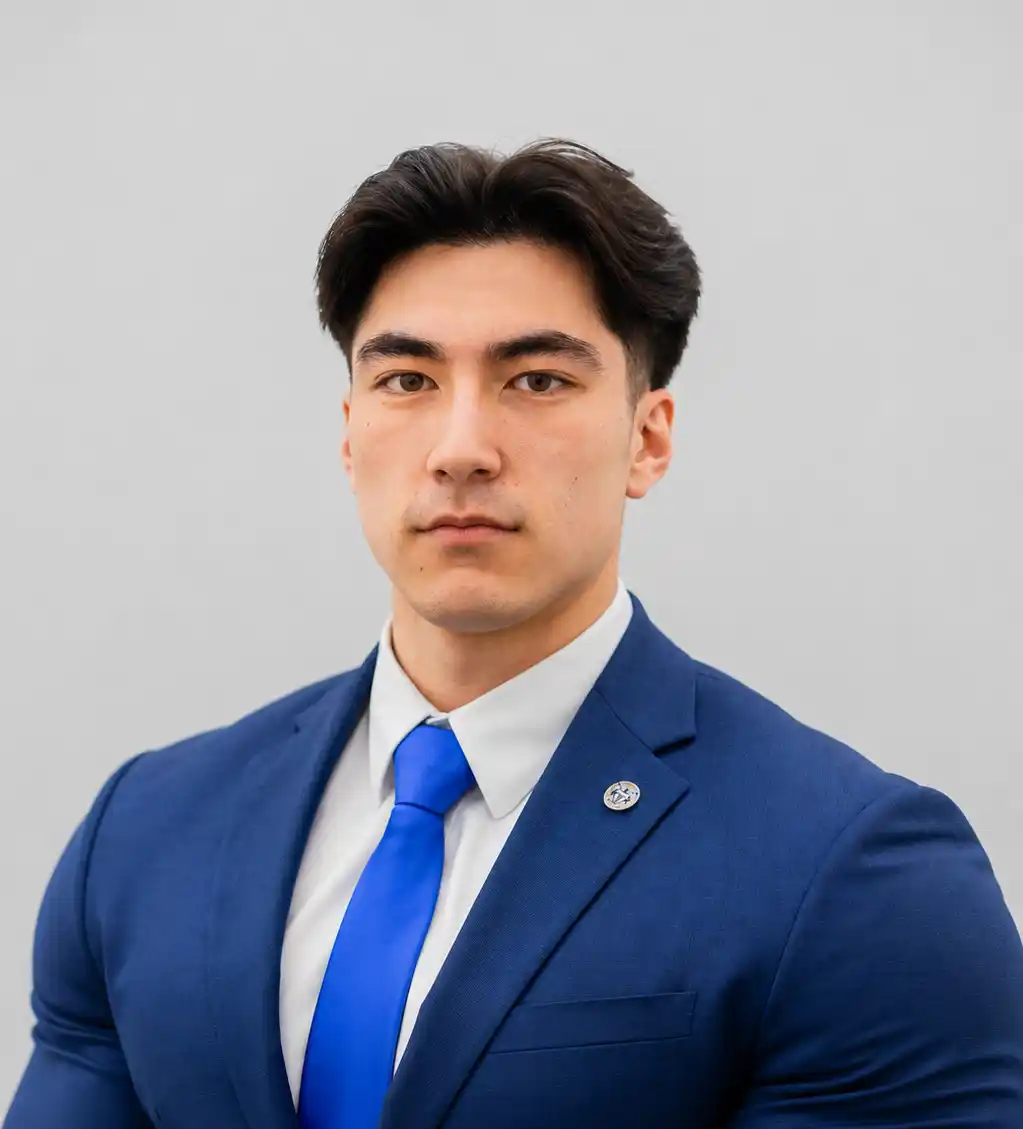
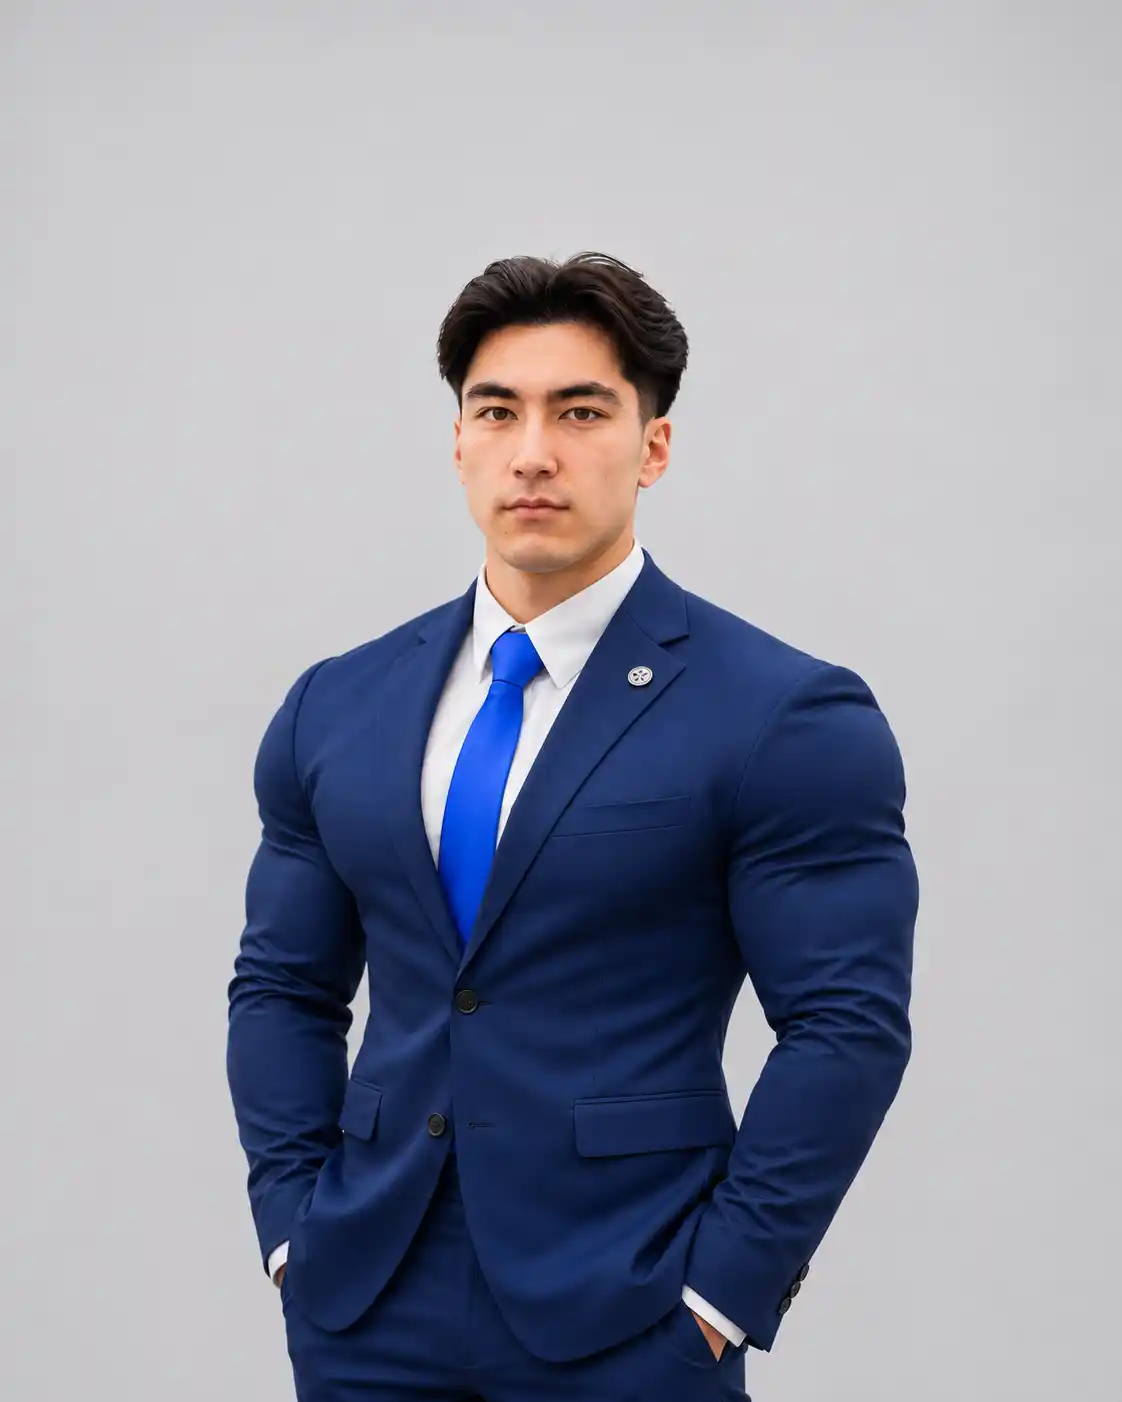
fixed year, changed a funny photo lol

diff --git a/brothers/index.md b/brothers/index.md
@@ -7,7 +7,7 @@ nav:
 ---
 
 {:.center}
-# {% include icon.html icon="fa-solid fa-users" %}2024-2025 Executive Board
+# {% include icon.html icon="fa-solid fa-users" %}2026-2027 Executive Board
 {:.center}
 {% include section.html %}
 
